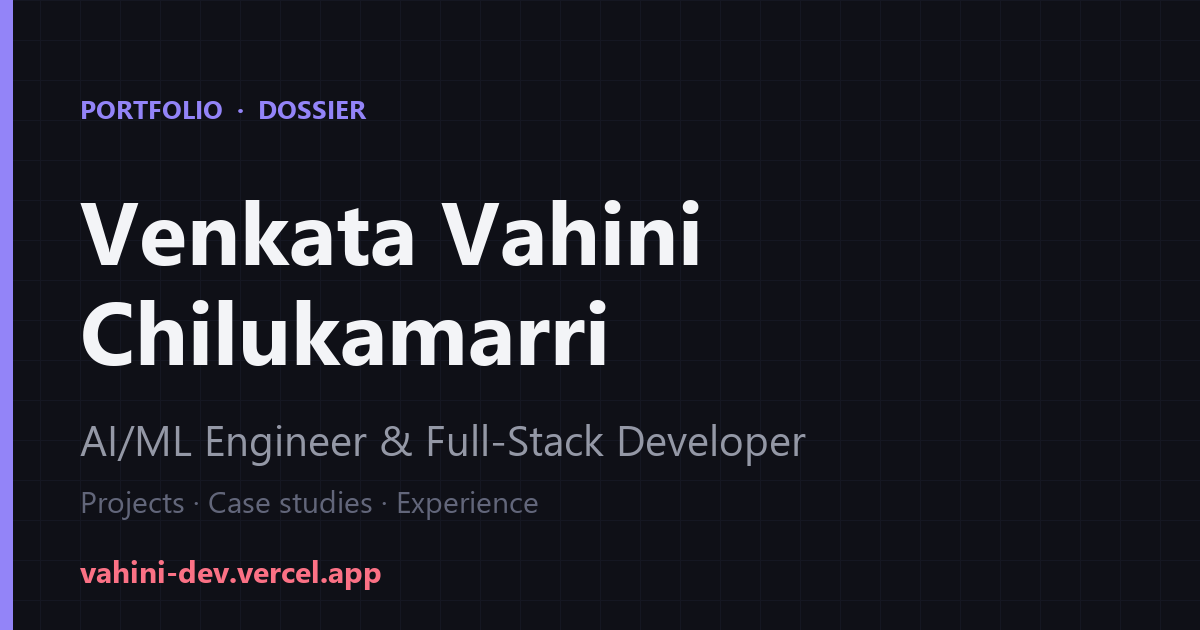
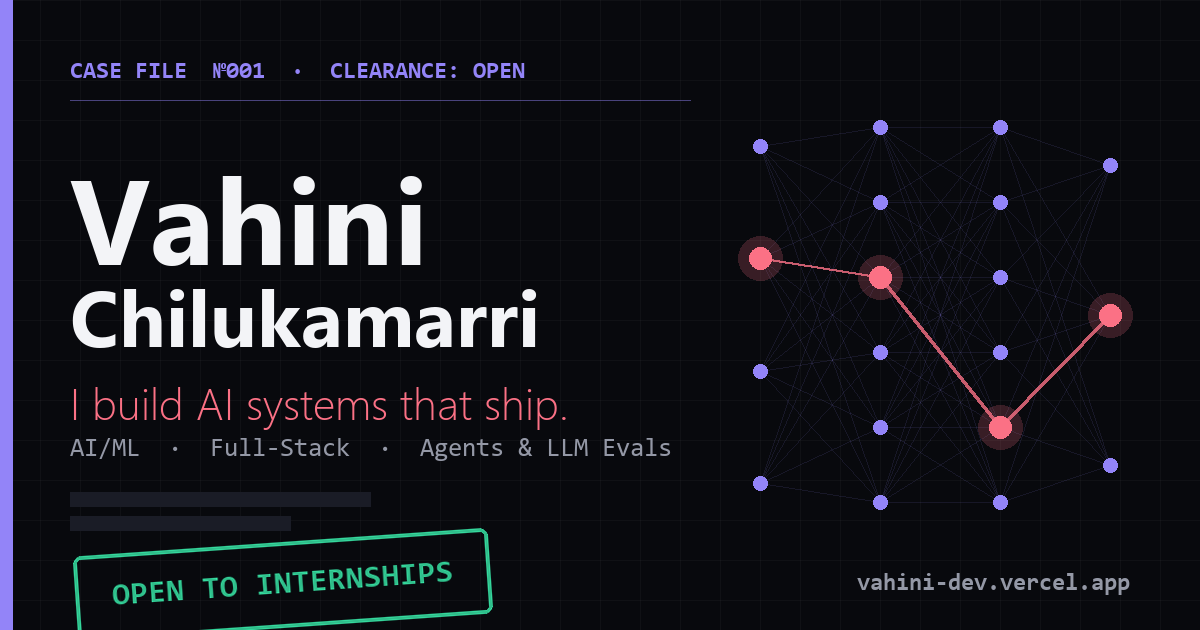
Redesign OG image and link-preview copy with case-file theme

diff --git a/index.html b/index.html
@@ -11,19 +11,19 @@
     <meta property="og:type" content="website" />
     <meta property="og:site_name" content="Venkata Vahini Chilukamarri" />
     <meta property="og:url" content="https://vahini-dev.vercel.app/" />
-    <meta property="og:title" content="Venkata Vahini Chilukamarri — AI/ML Engineer &amp; Full-Stack Developer" />
-    <meta property="og:description" content="Portfolio and casework: AI/ML projects, full-stack apps, and case studies. Open to Software Engineering and AI/ML internships." />
-    <meta property="og:image" content="https://vahini-dev.vercel.app/og-image.png" />
-    <meta property="og:image:secure_url" content="https://vahini-dev.vercel.app/og-image.png" />
+    <meta property="og:title" content="Vahini Chilukamarri — Case File №001: AI/ML Engineer Who Ships" />
+    <meta property="og:description" content="Open the dossier: AI agents, LLM evals and payment-integrity systems, each told as a case study. Open to SWE and AI/ML internships." />
+    <meta property="og:image" content="https://vahini-dev.vercel.app/og-image.png?v=2" />
+    <meta property="og:image:secure_url" content="https://vahini-dev.vercel.app/og-image.png?v=2" />
     <meta property="og:image:type" content="image/png" />
     <meta property="og:image:width" content="1200" />
     <meta property="og:image:height" content="630" />
     <meta property="og:image:alt" content="Venkata Vahini Chilukamarri — AI/ML Engineer and Full-Stack Developer portfolio" />
 
     <meta name="twitter:card" content="summary_large_image" />
-    <meta name="twitter:title" content="Venkata Vahini Chilukamarri — AI/ML Engineer &amp; Full-Stack Developer" />
-    <meta name="twitter:description" content="Portfolio and casework: AI/ML projects, full-stack apps, and case studies." />
-    <meta name="twitter:image" content="https://vahini-dev.vercel.app/og-image.png" />
+    <meta name="twitter:title" content="Vahini Chilukamarri — Case File №001: AI/ML Engineer Who Ships" />
+    <meta name="twitter:description" content="Open the dossier: AI agents, LLM evals and payment-integrity systems, told as case studies." />
+    <meta name="twitter:image" content="https://vahini-dev.vercel.app/og-image.png?v=2" />
   </head>
   <body>
     <div id="root"></div>
